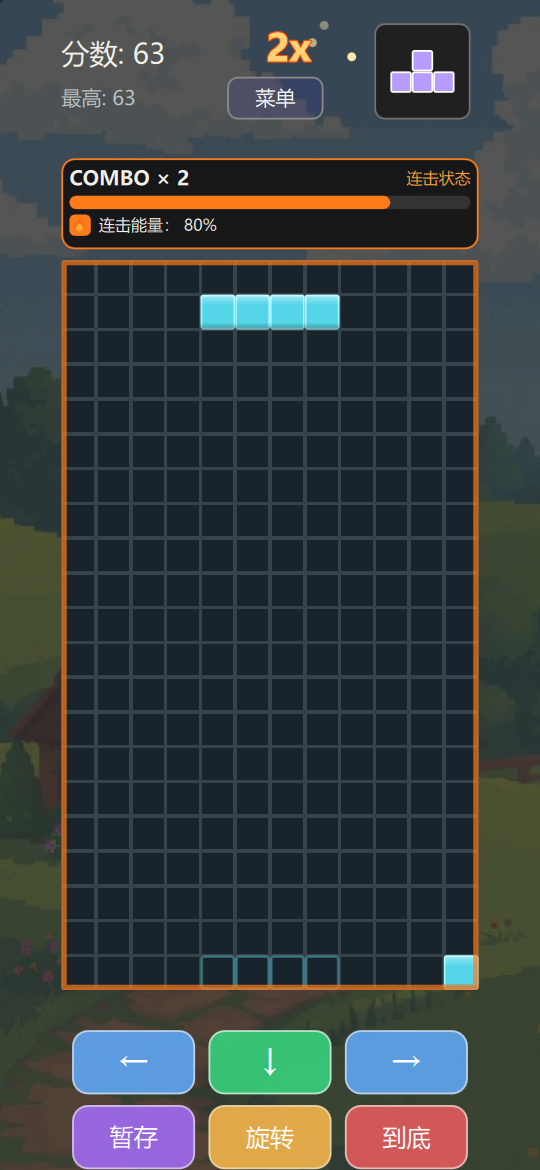
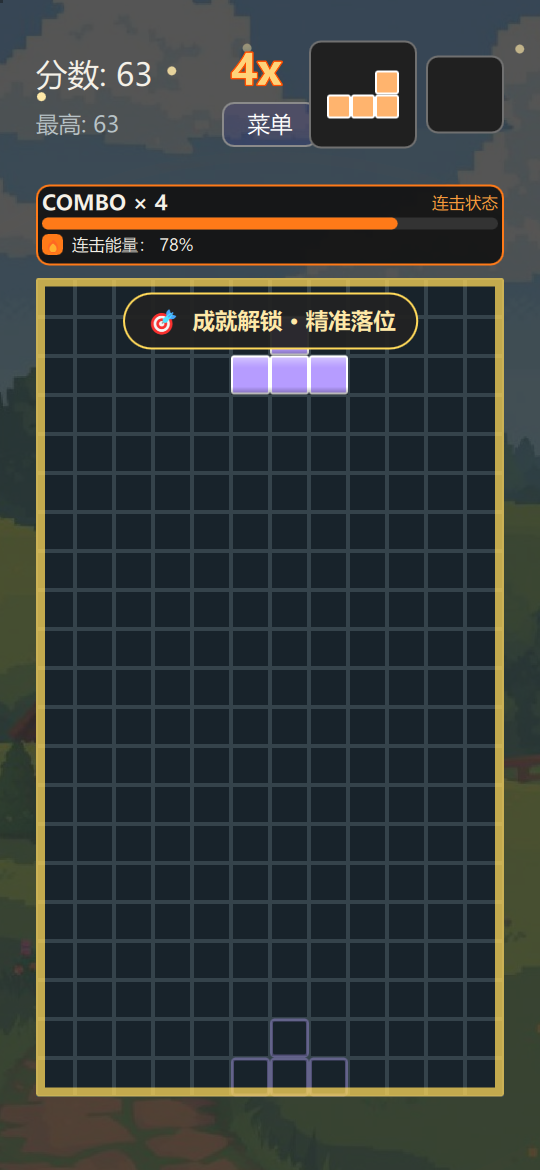
手势模式布局紧凑化：暂存框与预览并排(省54px)/能量卡68→54px(字号条宽同步收紧)/头部间隔13→8/棋盘上移偏移20→0——棋盘顶部占比36%→28%,底部留拇指余量;菜单按钮72→64适配并排后宽度;demo新增gesture布局验收场景;补丁v8已推送真机验证(rel-15~18)

diff --git a/Main.qml b/Main.qml
@@ -842,6 +842,17 @@ ApplicationWindow {
                     demoTimer.stop()
                     Qt.quit()
                 }
+            } else if (demoScene === "gesture") {
+                // 手势模式布局验收：暂存框并排 + 紧凑能量卡 + 棋盘上移
+                isPaused = false
+                if (demoStep === 0) {
+                    opMode = "gestures"
+                    demoSetupTetris()
+                    shoot("gesture-layout")
+                } else {
+                    demoTimer.stop()
+                    Qt.quit()
+                }
             } else {
                 demoTimer.stop()
             }
@@ -1978,8 +1989,8 @@ ApplicationWindow {
         }
     }
 
-    // 棋盘下移量：按键模式少量腾出能量条空间；手势模式底部无按钮，下移更多
-    readonly property int boardTopOffset: opMode === "gestures" ? 20 : 8
+    // 棋盘下移量：手势模式顶部元素已紧凑化，棋盘整体上移给拇指留余量
+    readonly property int boardTopOffset: opMode === "gestures" ? 0 : 8
 
     Column {
         id: mainColumn
@@ -2107,8 +2118,8 @@ ApplicationWindow {
                 }
 
                 Rectangle {
-                    width: 72
-                    height: 32
+                    width: 64
+                    height: 30
                     radius: 8
                     color: "#2f2f2fb0"
                     border.width: 1
@@ -2139,18 +2150,18 @@ ApplicationWindow {
                 }
             }
 
-            // 右侧：下一个方块预览（标签在框外上方）
-            Column {
+            // 右侧：下一个方块预览；手势模式暂存框并列其右（紧凑化，棋盘上移）
+            Row {
                 id: nextPreviewColumn
-                spacing: 2
-                width: 84
+                spacing: 6
                 anchors.verticalCenter: parent.verticalCenter
+                width: opMode === "gestures" ? nextPreview.width + holdPreview.width + spacing
+                                              : nextPreview.width
 
                 Rectangle {
                     id: nextPreview
                     width: 4 * 18
                     height: 4 * 18
-                    anchors.horizontalCenter: parent.horizontalCenter
                     radius: 8
                     color: "#202020"
                     border.color: "#707070"
@@ -2184,10 +2195,11 @@ ApplicationWindow {
 
                 // 暂存指示（手势模式下可见：上滑暂存/调出，用过置灰）
                 Rectangle {
+                    id: holdPreview
                     visible: opMode === "gestures"
                     width: 4 * 13
                     height: 4 * 13
-                    anchors.horizontalCenter: parent.horizontalCenter
+                    anchors.verticalCenter: parent.verticalCenter
                     radius: 8
                     color: "#202020"
                     border.color: canHold ? "#707070" : "#3a3a3a"
@@ -2225,37 +2237,37 @@ ApplicationWindow {
 
         Item {
             width: 1
-            height: 13
+            height: 8
         }
 
         // 游戏画布区域
 
-        // 连击能量槽卡片：横铺棋盘上方（连击 ≥2 显示），消行回满 / 随时间衰减
+        // 连击能量槽卡片：横铺棋盘上方（紧凑化：54px，消行回满 / 随时间衰减）
         Rectangle {
             id: energyCard
             visible: true                          // 常驻：无连击时槽为空
             width: gameBoard.width
-            height: 68
-            radius: 10
+            height: 54
+            radius: 9
             color: "#F0141414"
             border.color: comboEnergy > 25 ? "#ff7a18" : "#ff4444"
             border.width: 1
 
             Column {
                 anchors.fill: parent
-                anchors.margins: 6
-                spacing: 4
+                anchors.margins: 4
+                spacing: 3
 
                 Item {
                     width: parent.width
-                    height: 18
+                    height: 15
 
                     Text {
                         anchors.left: parent.left
                         anchors.verticalCenter: parent.verticalCenter
                         text: "COMBO × " + comboStreak
                         color: "#f5f1e8"
-                        font.pixelSize: 15
+                        font.pixelSize: 14
                         font.bold: true
                     }
                     Text {
@@ -2263,46 +2275,47 @@ ApplicationWindow {
                         anchors.verticalCenter: parent.verticalCenter
                         text: "连击状态"
                         color: "#ff9e3d"
-                        font.pixelSize: 12
+                        font.pixelSize: 11
                     }
                 }
 
                 Rectangle {
                     width: parent.width
-                    height: 10
-                    radius: 5
+                    height: 8
+                    radius: 4
                     color: "#333333"
                     Rectangle {
                         width: parent.width * comboEnergy / 100
                         height: parent.height
-                        radius: 5
+                        radius: 4
                         color: comboEnergy > 25 ? "#ff7a18" : "#ff4444"
                     }
                 }
 
                 Item {
                     width: parent.width
-                    height: 16
+                    height: 14
 
                     Rectangle {
-                        width: 16
-                        height: 16
+                        width: 14
+                        height: 14
                         radius: 4
                         anchors.left: parent.left
+                        anchors.verticalCenter: parent.verticalCenter
                         color: "#ff7a18"
                         Text {
                             anchors.centerIn: parent
                             text: "🔥"
-                            font.pixelSize: 10
+                            font.pixelSize: 9
                         }
                     }
                     Text {
                         anchors.left: parent.left
-                        anchors.leftMargin: 22
+                        anchors.leftMargin: 20
                         anchors.verticalCenter: parent.verticalCenter
                         text: "连击能量： " + Math.round(comboEnergy) + "%"
                         color: "#f5f1e8"
-                        font.pixelSize: 12
+                        font.pixelSize: 11
                     }
                 }
             }

diff --git a/leaderboard/apk/patch/Main.qml b/leaderboard/apk/patch/Main.qml
@@ -842,6 +842,17 @@ ApplicationWindow {
                     demoTimer.stop()
                     Qt.quit()
                 }
+            } else if (demoScene === "gesture") {
+                // 手势模式布局验收：暂存框并排 + 紧凑能量卡 + 棋盘上移
+                isPaused = false
+                if (demoStep === 0) {
+                    opMode = "gestures"
+                    demoSetupTetris()
+                    shoot("gesture-layout")
+                } else {
+                    demoTimer.stop()
+                    Qt.quit()
+                }
             } else {
                 demoTimer.stop()
             }
@@ -1978,8 +1989,8 @@ ApplicationWindow {
         }
     }
 
-    // 棋盘下移量：按键模式少量腾出能量条空间；手势模式底部无按钮，下移更多
-    readonly property int boardTopOffset: opMode === "gestures" ? 20 : 8
+    // 棋盘下移量：手势模式顶部元素已紧凑化，棋盘整体上移给拇指留余量
+    readonly property int boardTopOffset: opMode === "gestures" ? 0 : 8
 
     Column {
         id: mainColumn
@@ -2107,8 +2118,8 @@ ApplicationWindow {
                 }
 
                 Rectangle {
-                    width: 72
-                    height: 32
+                    width: 64
+                    height: 30
                     radius: 8
                     color: "#2f2f2fb0"
                     border.width: 1
@@ -2139,18 +2150,18 @@ ApplicationWindow {
                 }
             }
 
-            // 右侧：下一个方块预览（标签在框外上方）
-            Column {
+            // 右侧：下一个方块预览；手势模式暂存框并列其右（紧凑化，棋盘上移）
+            Row {
                 id: nextPreviewColumn
-                spacing: 2
-                width: 84
+                spacing: 6
                 anchors.verticalCenter: parent.verticalCenter
+                width: opMode === "gestures" ? nextPreview.width + holdPreview.width + spacing
+                                              : nextPreview.width
 
                 Rectangle {
                     id: nextPreview
                     width: 4 * 18
                     height: 4 * 18
-                    anchors.horizontalCenter: parent.horizontalCenter
                     radius: 8
                     color: "#202020"
                     border.color: "#707070"
@@ -2184,10 +2195,11 @@ ApplicationWindow {
 
                 // 暂存指示（手势模式下可见：上滑暂存/调出，用过置灰）
                 Rectangle {
+                    id: holdPreview
                     visible: opMode === "gestures"
                     width: 4 * 13
                     height: 4 * 13
-                    anchors.horizontalCenter: parent.horizontalCenter
+                    anchors.verticalCenter: parent.verticalCenter
                     radius: 8
                     color: "#202020"
                     border.color: canHold ? "#707070" : "#3a3a3a"
@@ -2225,37 +2237,37 @@ ApplicationWindow {
 
         Item {
             width: 1
-            height: 13
+            height: 8
         }
 
         // 游戏画布区域
 
-        // 连击能量槽卡片：横铺棋盘上方（连击 ≥2 显示），消行回满 / 随时间衰减
+        // 连击能量槽卡片：横铺棋盘上方（紧凑化：54px，消行回满 / 随时间衰减）
         Rectangle {
             id: energyCard
             visible: true                          // 常驻：无连击时槽为空
             width: gameBoard.width
-            height: 68
-            radius: 10
+            height: 54
+            radius: 9
             color: "#F0141414"
             border.color: comboEnergy > 25 ? "#ff7a18" : "#ff4444"
             border.width: 1
 
             Column {
                 anchors.fill: parent
-                anchors.margins: 6
-                spacing: 4
+                anchors.margins: 4
+                spacing: 3
 
                 Item {
                     width: parent.width
-                    height: 18
+                    height: 15
 
                     Text {
                         anchors.left: parent.left
                         anchors.verticalCenter: parent.verticalCenter
                         text: "COMBO × " + comboStreak
                         color: "#f5f1e8"
-                        font.pixelSize: 15
+                        font.pixelSize: 14
                         font.bold: true
                     }
                     Text {
@@ -2263,46 +2275,47 @@ ApplicationWindow {
                         anchors.verticalCenter: parent.verticalCenter
                         text: "连击状态"
                         color: "#ff9e3d"
-                        font.pixelSize: 12
+                        font.pixelSize: 11
                     }
                 }
 
                 Rectangle {
                     width: parent.width
-                    height: 10
-                    radius: 5
+                    height: 8
+                    radius: 4
                     color: "#333333"
                     Rectangle {
                         width: parent.width * comboEnergy / 100
                         height: parent.height
-                        radius: 5
+                        radius: 4
                         color: comboEnergy > 25 ? "#ff7a18" : "#ff4444"
                     }
                 }
 
                 Item {
                     width: parent.width
-                    height: 16
+                    height: 14
 
                     Rectangle {
-                        width: 16
-                        height: 16
+                        width: 14
+                        height: 14
                         radius: 4
                         anchors.left: parent.left
+                        anchors.verticalCenter: parent.verticalCenter
                         color: "#ff7a18"
                         Text {
                             anchors.centerIn: parent
                             text: "🔥"
-                            font.pixelSize: 10
+                            font.pixelSize: 9
                         }
                     }
                     Text {
                         anchors.left: parent.left
-                        anchors.leftMargin: 22
+                        anchors.leftMargin: 20
                         anchors.verticalCenter: parent.verticalCenter
                         text: "连击能量： " + Math.round(comboEnergy) + "%"
                         color: "#f5f1e8"
-                        font.pixelSize: 12
+                        font.pixelSize: 11
                     }
                 }
             }
